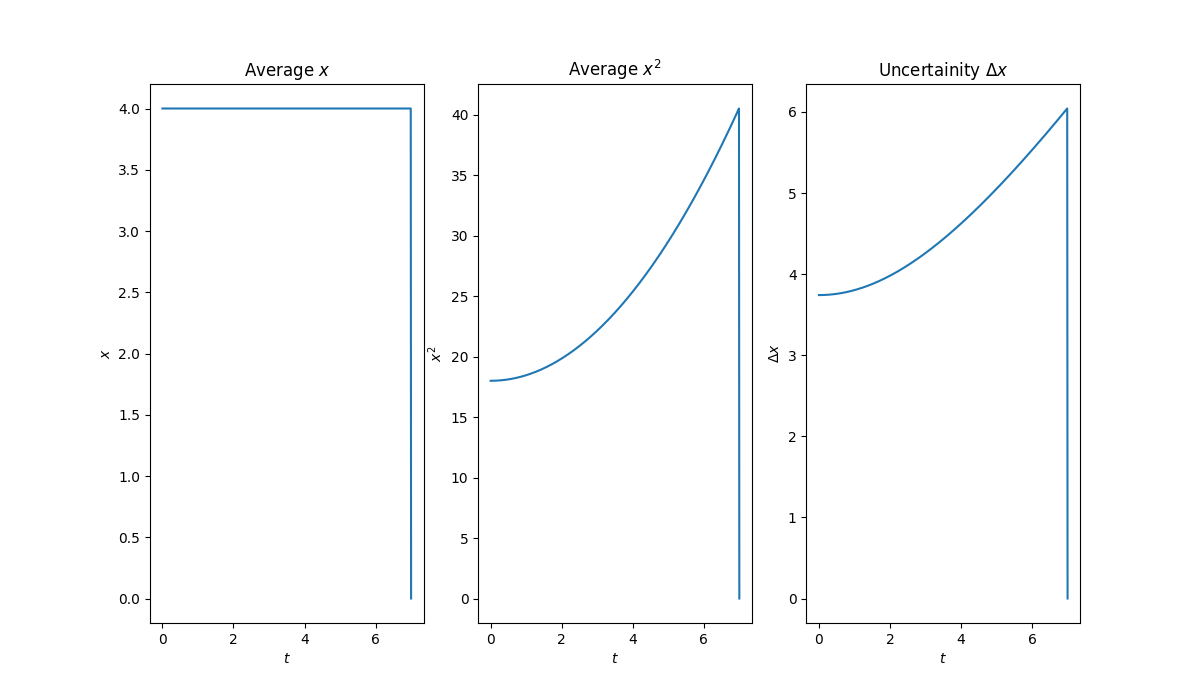
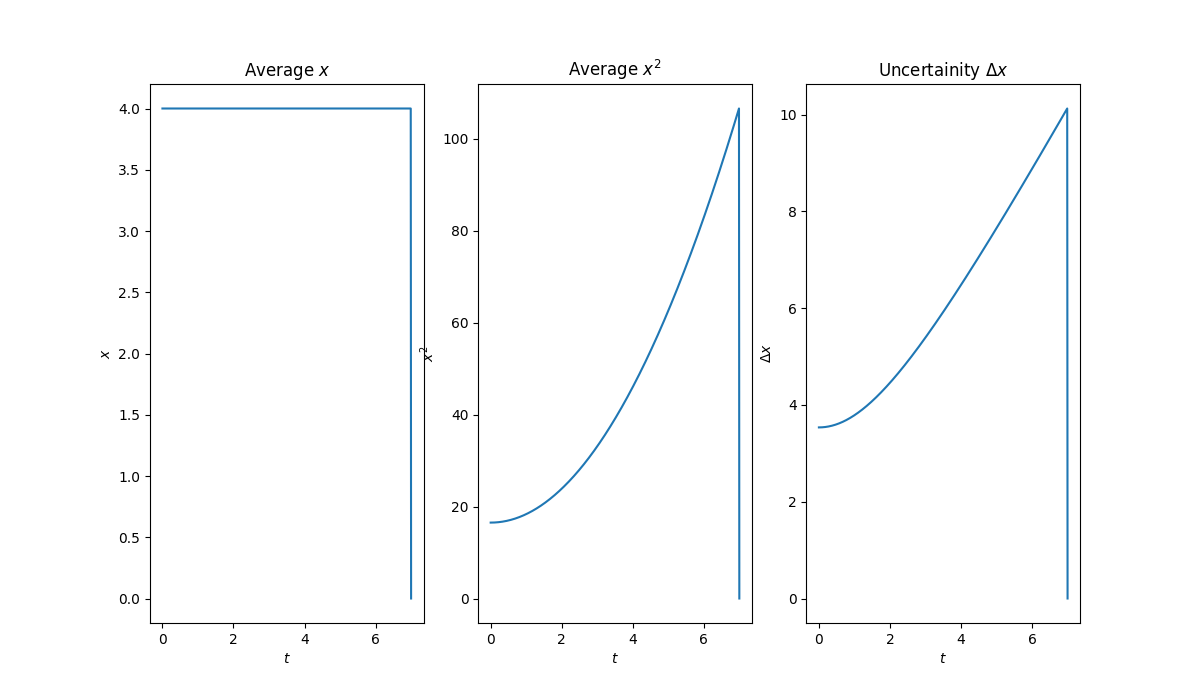
fixed buggs

diff --git a/2DTDSE.py b/2DTDSE.py
@@ -89,6 +89,34 @@ class Schrodinger(object):
         plt.savefig('Normalization.png')
         plt.show()
 
+    def play_video(self, PSI):
+
+        def update(i, P, surf):
+            ax.clear()
+            psi = abs(P[:, i].reshape(self.J, self.L) ** 2)
+            surf = ax.plot_surface(self.X, self.Y, psi, \
+            rstride=1, cstride=1, cmap='plasma')
+            ax.set_zlim(0, 0.3)
+            ax.set_xlabel('$x$')
+            ax.set_ylabel('$y$')
+            ax.set_zlabel('$|\Psi(x, y)|^2$')
+            return surf
+        
+        frames = PSI.shape[1]
+        fig = plt.figure()
+        ax = fig.add_subplot(111, projection='3d')
+        ax.set_xlabel('$x$')
+        ax.set_ylabel('$y$')
+        ax.set_zlabel('$|\Psi(x, y)|^2$')
+        surf = ax.plot_surface(self.X, self.Y, abs(PSI[:, 0].reshape(self.J, self.L) ** 2), \
+                rstride=1, cstride=1, cmap='plasma')
+        ax.set_zlim(0, 0.3)
+        ani = animation.FuncAnimation(fig, update, frames=frames,\
+                fargs=(PSI, surf), \
+                interval=30, blit=False)
+
+        plt.show()
+
     def solve(self):
         U1, U2 = self.sparse_matrix()
         LU = scipy.sparse.linalg.splu(U1)
@@ -181,8 +209,8 @@ class Schrodinger(object):
 
 if __name__ == '__main__':
     args = {
-        'nx': 100,
-        'ny': 100, 
+        'nx': 200,
+        'ny': 200, 
         'x0': -40, 
         'xf': 40, 
         'y0': -40,
@@ -192,8 +220,8 @@ if __name__ == '__main__':
         't0': 0, 
         'tf': 7.0,
         'dt': 0.01, 
-        'sigmax': 2.0, 
-        'sigmay': 2.0,
+        'sigmax': 1.0, 
+        'sigmay': 1.0,
         'k0x': 0,
         'k0y': 0,
         'mass': 0.5,
@@ -201,39 +229,7 @@ if __name__ == '__main__':
         }
     schrodinger = Schrodinger(**args)
     PSI = schrodinger.solve()
-
-    play_video = False
-
-    if play_video:
-        X, Y = schrodinger.get_meshgrid()
-        J, L = schrodinger.get_shape()
-
-        def update(i, PSI, surf):
-            ax.clear()
-            psi = abs(PSI[:, i].reshape(J, L) ** 2)
-            surf = ax.plot_surface(X, Y, psi, \
-            rstride=1, cstride=1, cmap='plasma')
-            ax.set_zlim(0, 0.3)
-            ax.set_xlabel('$x$')
-            ax.set_ylabel('$y$')
-            ax.set_zlabel('$|\Psi(x, y)|^2$')
-            return surf
-        
-        frames = PSI.shape[1]
-        fig = plt.figure()
-        ax = fig.add_subplot(111, projection='3d')
-        ax.set_xlabel('$x$')
-        ax.set_ylabel('$y$')
-        ax.set_zlabel('$|\Psi(x, y)|^2$')
-        surf = ax.plot_surface(X, Y, abs(PSI[:, 0].reshape(J, L) ** 2), \
-                rstride=1, cstride=1, cmap='plasma')
-        ax.set_zlim(0, 0.3)
-        ani = animation.FuncAnimation(fig, update, frames=frames,\
-                fargs=(PSI, surf), \
-                interval=30, blit=False)
-
-        plt.show()
-
+    #schrodinger.play_video(PSI)
     schrodinger.plot_normalization(PSI)
     schrodinger.plot_average_x(PSI)
     schrodinger.plot_average_y(PSI)
